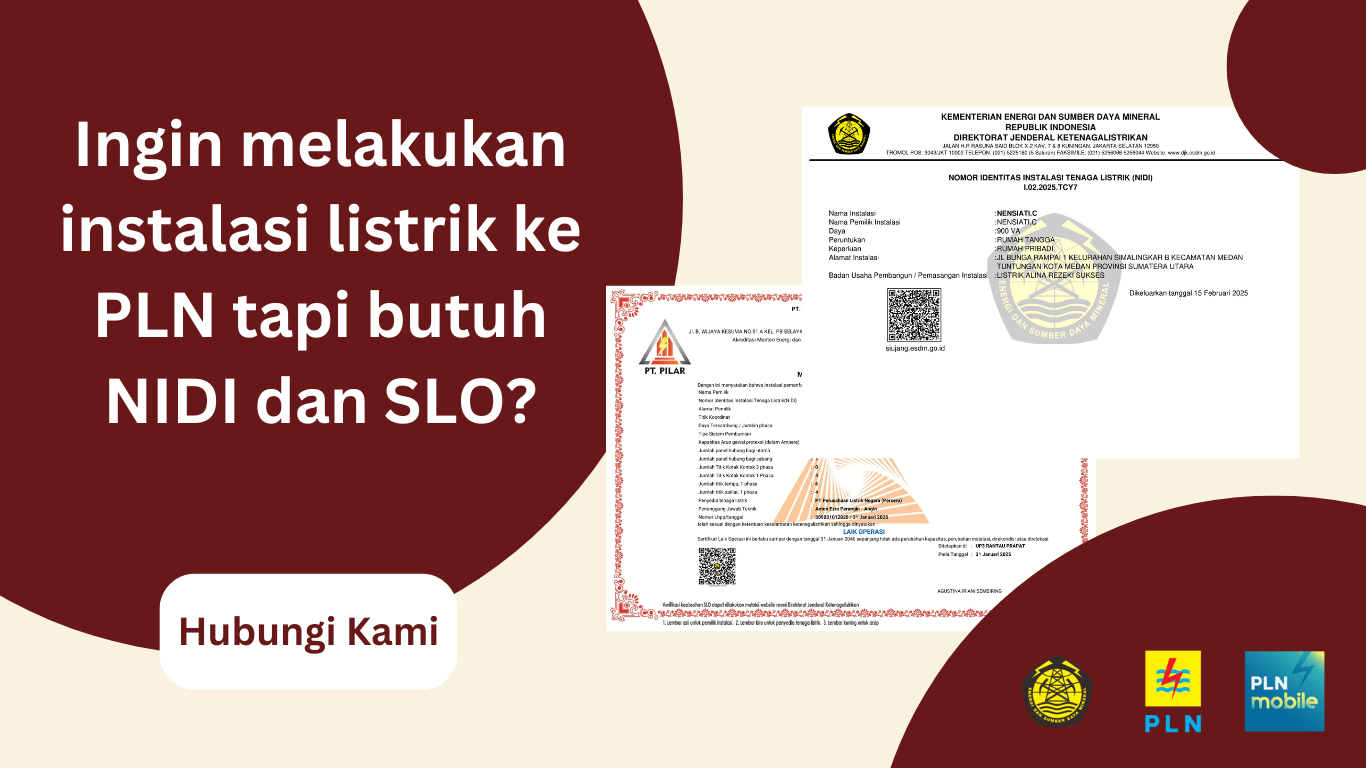
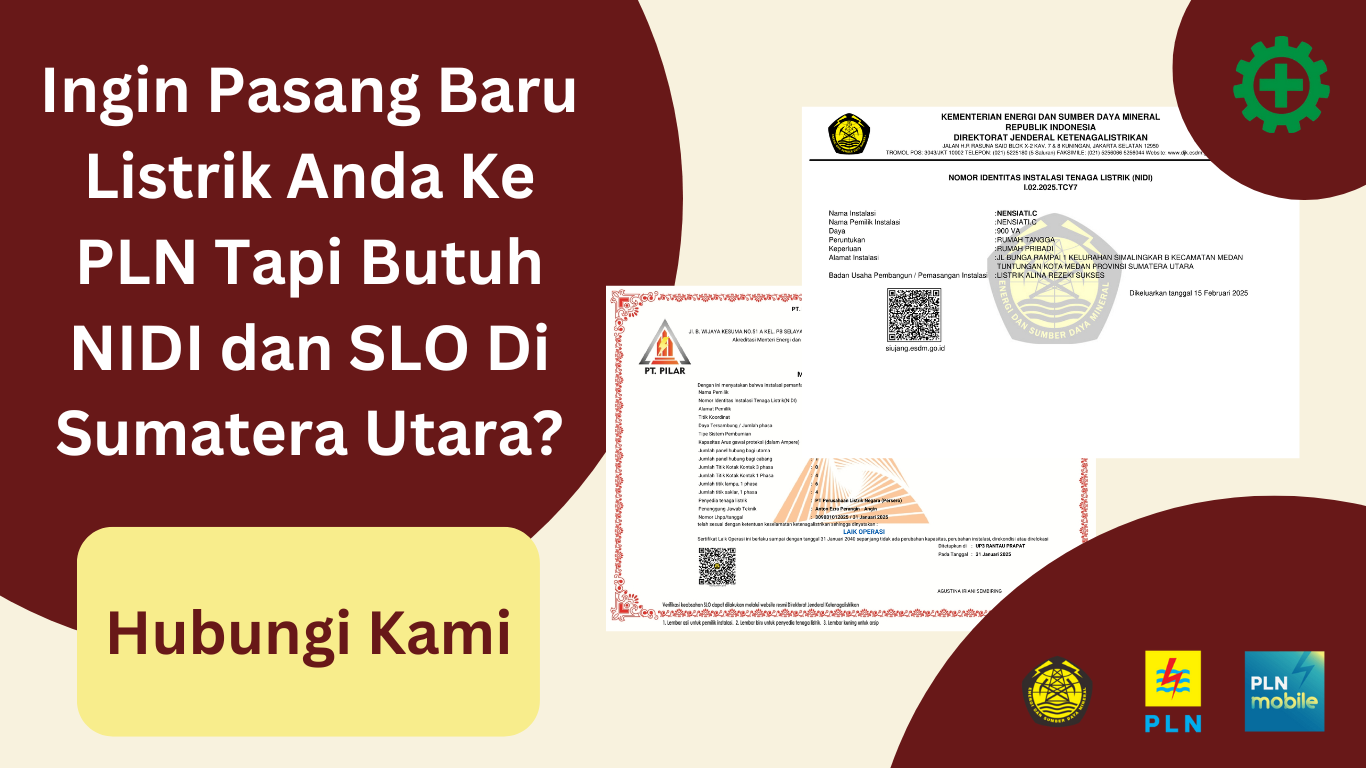
fix revision

Changed region(s): [[0.0307, 0.0625, 0.4305, 0.5938], [0.0307, 0.6875, 0.3997, 0.9688], [0.8609, 0.0, 1.0, 0.2812]]

diff --git a/src/components/our-product-section.tsx b/src/components/our-product-section.tsx
@@ -22,6 +22,10 @@ export const OurProductSection = () => {
         </div>
         <div className={styles.rightContent}>
           <div className={styles.text}>
+            Kami merupakan salah satu <span className={styles.boldText}>badan usaha resmi yang menerbitkan NIDI dan SLO resmi</span> yang bekerja sama dengan 
+            <span className={styles.boldText}> PLN dan ESDM.</span> Kami melayani permintaan penerbitan NIDI dan SLO pada <span className={styles.boldText}>wilayah Sumatera Utara.</span>
+          </div>
+          <div className={styles.text}>
             <span className={styles.boldText}>NIDI (Nomor Identitas Instalasi Listrik)</span> merupakan nomor identitas yang dikeluarkan
             <span className={styles.boldText}> Kementerian ESDM</span> untuk instalasi listrik yang telah selesai
             dipasang atau dibangun oleh pelaku usaha jasa pembangunan dan pemasangan instalasi listrik yang memiliki
@@ -34,20 +38,13 @@ export const OurProductSection = () => {
             sebagaimana kesesuaian persyaratan standar yang ditentukan bagi instalasi tersebut dan dinyatakan
             laik dioperasikan. 
           </div>
-          <div className={mergeStrings(styles.text, styles.boldText)}>
-            Kami merupakan salah satu badan usaha resmi yang menerbitkan NIDI dan SLO resmi yang bekerja sama dengan PLN dan ESDM.
-            Kami melayani permintaan penerbitan NIDI dan SLO pada wilayah Sumatera Utara.
-          </div>
         </div>
       </div>
       <div className={styles.productCardContainer}>
         <ProductCard
-          imageUrl='/card-nidi-logo.png'
-          title='Nomor Identitas Instalasi Listrik (NIDI)'
-        />
-        <ProductCard
-          imageUrl='/card-slo-logo.png'
-          title='Sertifikat Laik Operasi (SLO)'
+          imageUrl1='/card-nidi-logo.png'
+          imageUrl2='/card-slo-logo.png'
+          title='Isi data permohonan NIDI dan SLO anda'
         />
       </div>
     </div>

diff --git a/src/pages/order-form.tsx b/src/pages/order-form.tsx
@@ -10,6 +10,7 @@ import { OrderFormData, OrderFormDataMessageKeyEnum } from "@/interface/order-fo
 import { encodeOrderFormDataToURI } from "@/util/encode-form-to-uri";
 import { dataDesaResponse, dataKabupatenResponse, dataKecamatanResponse } from "@/interface/api-wilayah.interface";
 import { apiGetWilayahIndonesia } from "@/api/api-wilayah-indonesia";
+import { AttentionSection } from "@/components/attention-section";
 
 const FORM_DEFAULT_VALUE: OrderFormData = {
   name: "",
@@ -26,6 +27,7 @@ const FORM_DEFAULT_VALUE: OrderFormData = {
   switch: 0,
   socket: 0,
   power: "",
+  isChecked: false,
 }
 
 const OrderForm: NextPageWithLayout = () => {
@@ -113,6 +115,7 @@ const OrderForm: NextPageWithLayout = () => {
 
   return(
     <div className={styles.container}>
+      <AttentionSection />
       <div className={styles.title}>Formulir Permohonan</div>
       <div style={{width: '100%'}}>
         <form
@@ -265,6 +268,17 @@ const OrderForm: NextPageWithLayout = () => {
               }
             </select>
             {errors.power ? <ErrorMessage message={errors.power.message}/> : null}
+          </div>
+
+          <div className={styles.inputWrapper}>
+            <label className={styles.label}>Pernyataan</label>
+            <div className={styles.checkboxWrapper}>
+              <input className={styles.input} {...register("isChecked", { required: "Pernyataan harus diisi" })} type="checkbox" />
+              <div>
+                Dengan ini menyatakan bahwa instalasi pemanfaatan tenaga listrik tegangan rendah dengan data diatas TELAH TERPASANG OLEH PEMILIK SESUAI DENGAN STANDAR. Segala resiko yang timbul dari instalasi tersebut merupakan tanggung jawab pemilik instalasi sepenuhnya.
+              </div>
+            </div>
+            {errors.socket ? <ErrorMessage message={errors.socket.message}/> : null}
           </div>
 
           <input

diff --git a/src/components/product-card.tsx b/src/components/product-card.tsx
@@ -5,7 +5,8 @@ import { BaseButton } from './base-button';
 import { useRouter } from 'next/router';
 
 interface Props {
-  imageUrl: string;
+  imageUrl1: string;
+  imageUrl2: string;
   title: string;
 }
 export const ProductCard: React.FC<Props> = (props) => {
@@ -17,14 +18,20 @@ export const ProductCard: React.FC<Props> = (props) => {
     <div className={styles.cardContainer}>
       <div className={styles.imageContainer}>
         <Image
-          src={props.imageUrl}
+          src={props.imageUrl1}
+          alt='card-nidi-slo-logo'
+          width={75}
+          height={75}
+        />
+        <Image
+          src={props.imageUrl2}
           alt='card-nidi-slo-logo'
           width={75}
           height={75}
         />
       </div>
       <div className={styles.title}>{props.title}</div>
-      <BaseButton onClick={handleClick}>
+      <BaseButton className={styles.button} onClick={handleClick}>
         <p>Buat Permohonan</p>
       </BaseButton>
     </div>

diff --git a/src/components/attention-section.tsx b/src/components/attention-section.tsx
@@ -1,0 +1,18 @@
+import styles from './attention-section.module.css';
+
+export const AttentionSection = () => {
+  return(
+    <div className={styles.container}>
+      <div className={styles.header}>Perhatian !!!!</div>
+      <div className={styles.contentBox}>
+        <ol className={styles.contentBox}>
+          <li>Dimohon untuk tidak mengisi data hanya untuk coba-coba (Spam = Blacklist Data).</li>
+          <li>Pastikan data yang terisi terkirim ke WhatsApp</li>
+          <li>Anda wajib melakukan pembayaran sebelum data diproses.</li>
+          <li>Pastikan instalasi listrik dalam rumah telah / sedang dipasang.</li>
+          <li>Kami tidak menerima permohonan jika instalasi listrik (Sekering, Lampu, Sakelar, dll) dalam rumah belum ada / bangunan belum ada. Terima Kasih.</li>
+        </ol>
+      </div>
+    </div>
+  )
+}

diff --git a/src/components/product-card.module.css b/src/components/product-card.module.css
@@ -2,7 +2,7 @@
   padding: 3rem 1.5rem;
   box-shadow: rgba(100, 100, 111, 0.2) 0px 7px 29px 0px;
   border-radius: 16px;
-  width: 250px;
+  width: 350px;
   border: 1px solid rgba(0, 0, 0, 0.1);
   position: relative;
   display: flex;
@@ -17,4 +17,14 @@
   font-weight: 700;
   color: #D2665A;
   font-size: 1rem;
+}
+
+.button.button {
+  padding: 0.8rem;
+  font-size: 14px;
+}
+
+.imageContainer {
+  display: flex;
+  gap: 24px;
 }

diff --git a/src/components/attention-section.module.css b/src/components/attention-section.module.css
@@ -1,0 +1,23 @@
+.container {
+  display: flex;
+  flex-direction: column;
+  align-items: flex-start;
+  padding: 1.2rem;
+  border-radius: 16px;
+  background-color: #f2dede;
+  color: #a94442;
+  width: 100%;
+  font-size: 16px;
+  margin-bottom: 32px;
+}
+
+.header {
+  font-weight: 700;
+  font-size: 24px;
+}
+
+.contentBox {
+  gap: 12px;
+  display: flex;
+  flex-direction: column;
+}

diff --git a/src/components/why-us-section.tsx b/src/components/why-us-section.tsx
@@ -4,7 +4,6 @@ import mergeStrings from '@/util/mergeClassname';
 import { BenefitCard } from './benefit-card';
 
 
-// TODO: Create section why us and card that show our excellence
 export const WhyUsSection = () => {
   return (
     <div className={mergeStrings(baseStyles.container, styles.redBackground)}>

diff --git a/src/components/order-step-section.tsx b/src/components/order-step-section.tsx
@@ -2,7 +2,6 @@ import styles from './order-step-section.module.css'
 import baseStyles from './base-section-style.module.css';
 import Image from 'next/image';
 
-// TODO: create diagram/flow on the step to order
 export const OrderStepSection = () => {
   return (
     <div className={baseStyles.container}>

diff --git a/src/pages/order-form.module.css b/src/pages/order-form.module.css
@@ -53,6 +53,16 @@
   background-color: gray;
 }
 
+.checkBox {
+  width: 50px;
+  height: 50px;
+}
+
+.checkboxWrapper {
+  display: flex;
+  gap: 16px;
+}
+
 @media(max-width: 1280px) {
   .container {
     padding: 5rem;

diff --git a/src/interface/order-form.interface.ts b/src/interface/order-form.interface.ts
@@ -13,6 +13,7 @@ export interface OrderFormData {
   switch: number;
   socket: number;
   power: string;
+  isChecked: boolean;
 }
 
 export enum OrderFormDataMessageKeyEnum {
